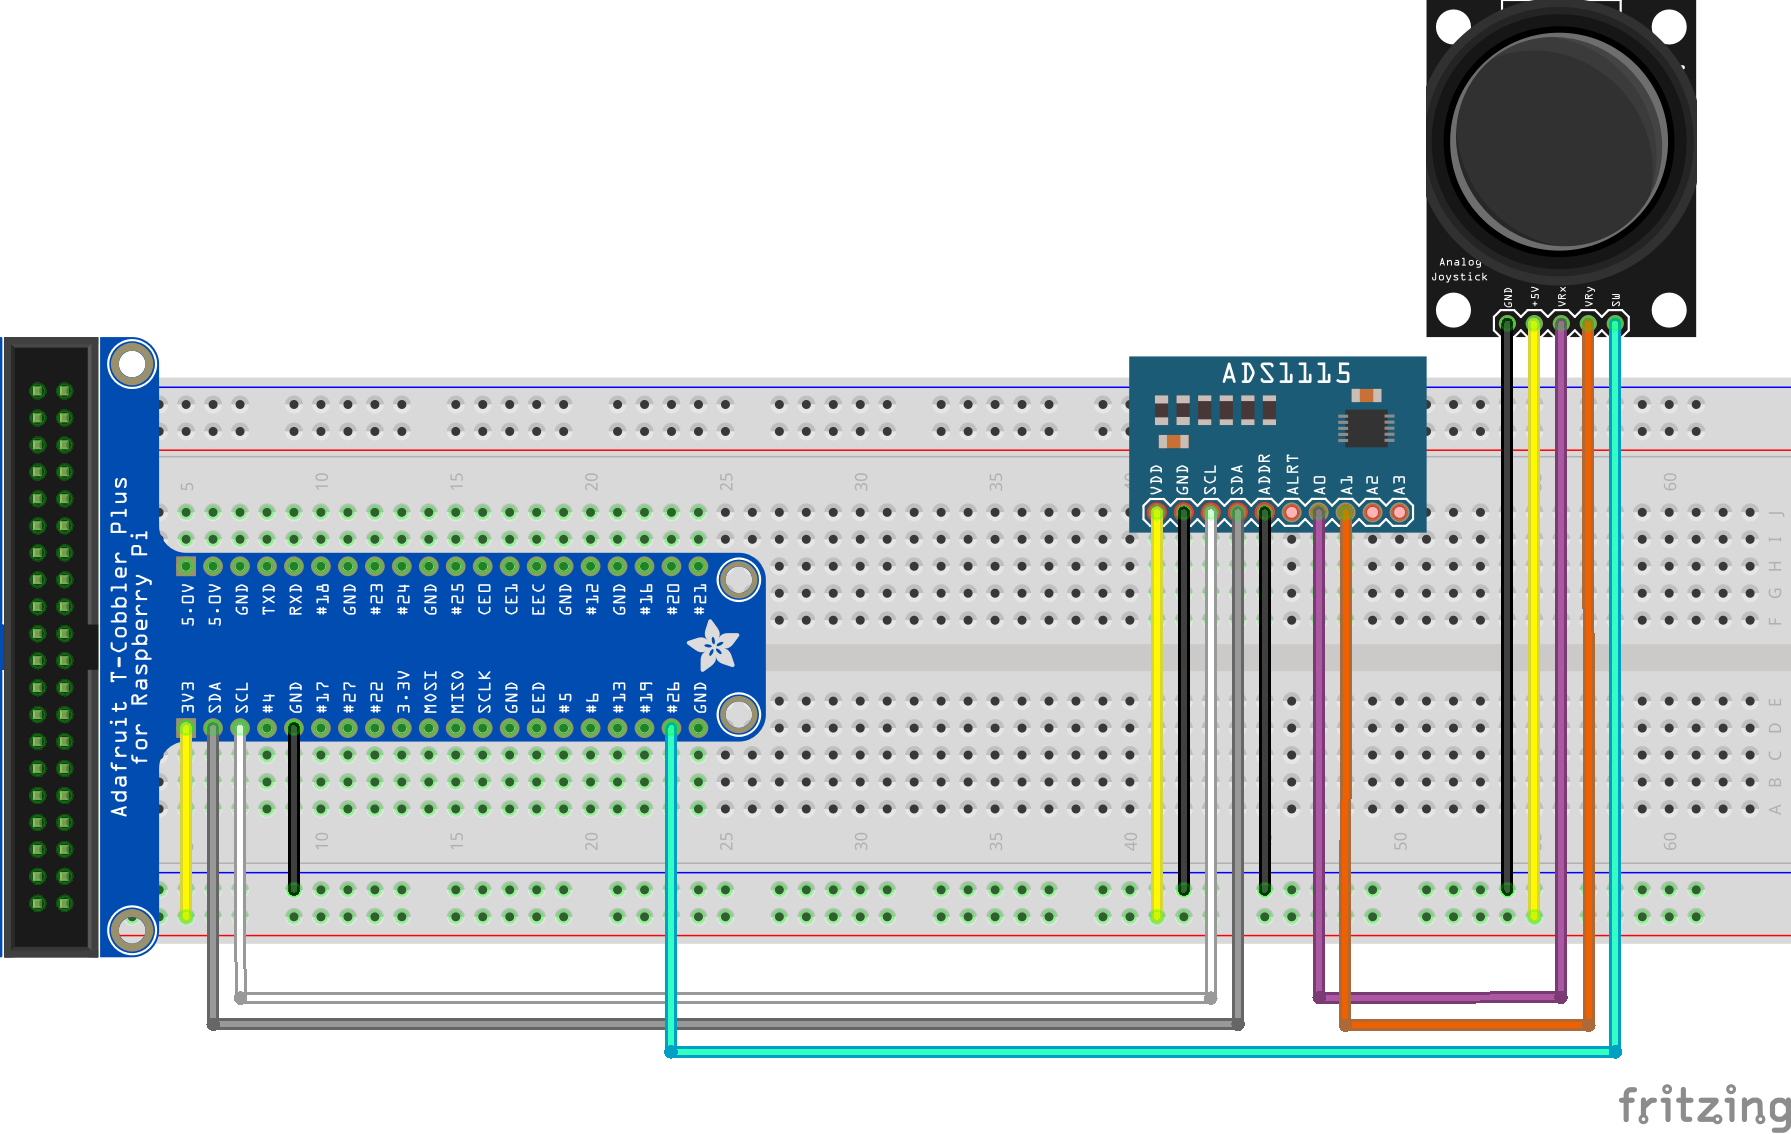
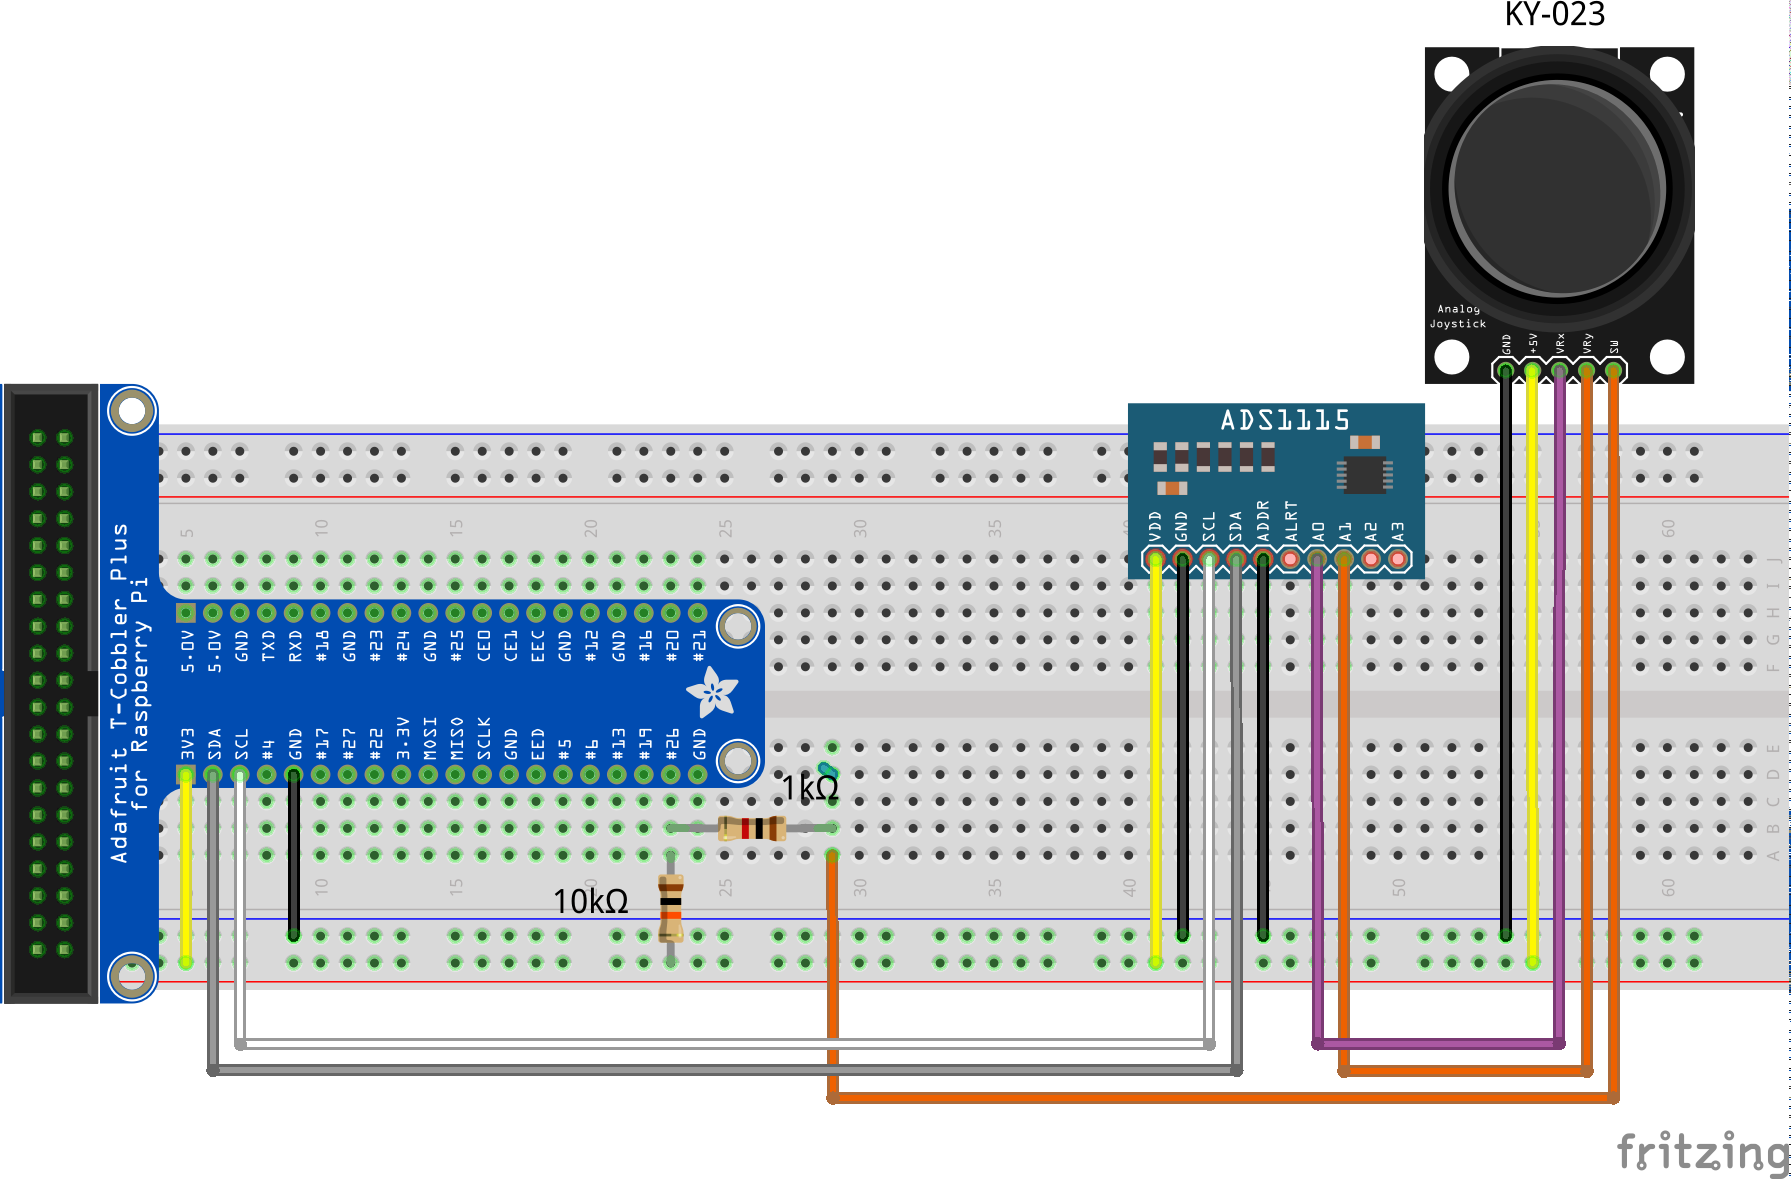
update code example, added resistor to layout, added description to joystick layout

Changed region(s): [[0.0, 0.0, 1.0, 1.0]]

diff --git a/content/documentation/device-examples/JoystickAnalog.md b/content/documentation/device-examples/JoystickAnalog.md
@@ -18,7 +18,7 @@ The basic functions of the template class are:
 ### Code
 A simple example on how to use the Joystick-Class from the [Hardware-Catalog](https://github.com/Pi4J/pi4j-example-components) :
 ```
-logInfo("Joystick test started ...");
+System.out.println("Joystick test started ...");
 
 ADS1115 ads1115 = new ADS1115(pi4j, 0x01, ADS1115.GAIN.GAIN_4_096V, ADS1115.ADDRESS.GND, 4);
 
@@ -29,54 +29,34 @@ JoystickAnalog joystick = new JoystickAnalog(pi4j, ads1115, 0, 1, 3.3, true, PIN
 //JoystickAnalog joystick = new JoystickAnalog(pi4j, ads1115, 0, 1, 3.3, false, PIN.D26);
 
 //register event handlers
-joystick.xOnMove(() -> {
-    logInfo("Current value of joystick x axis is: " + String.format("%.3f", joystick.getXValue()));
+joystick.xOnMove((value) -> {
+    System.out.println("Current value of joystick x axis is: " + String.format("%.3f", value));
 });
-joystick.yOnMove(() -> {
-    logInfo("Current value of joystick y axis is: " + String.format("%.3f", joystick.getYValue()));
+joystick.yOnMove((value) -> {
+    System.out.println("Current value of joystick y axis is: " + String.format("%.3f", value));
 });
 
 joystick.pushOnDown(() -> logInfo("Pressing the Button"));
 joystick.pushOnUp(() -> logInfo("Stopped pressing."));
 joystick.pushWhilePressed(() -> logInfo("Button is still pressed."), 1000);
 
-joystick.start(0.1,10);
-
-System.out.println("Joystick x value before calibration is: " +  String.format("%.3f", joystick.getXValue()));
-System.out.println("Joystick y value before calibration is: " +  String.format("%.3f", joystick.getYValue()));
-
-joystick.stop();
-
-delay(1000);
-
 joystick.calibrateJoystick();
 
-joystick.start(0.1, 10);
-
-System.out.println("Joystick x value after calibration is: " +  String.format("%.3f", joystick.getXValue()));
-System.out.println("Joystick y value after calibration is: " +  String.format("%.3f", joystick.getYValue()));
-
-joystick.stop();
-
-delay(1000);
-
 //start continious reading with single shot in this mode you can connect up to 4 devices to the analog module
-joystick.start(0.1, 10);
+joystick.start(0.05, 10);
 
 //wait while handling events before exiting
-logInfo("Move the joystick to see it in action!");
+System.out.println("Move the joystick to see it in action!");
 
-delay(50_000);
+delay(30_000);
 
 //stop continious reading
 joystick.stop();
 
-delay(1000);
-
 //deregister all event handlers
 joystick.deregisterAll();
 
-logInfo("Joystick test done");
+System.out.println("Joystick test done");
 ```
 
 ### Further application
